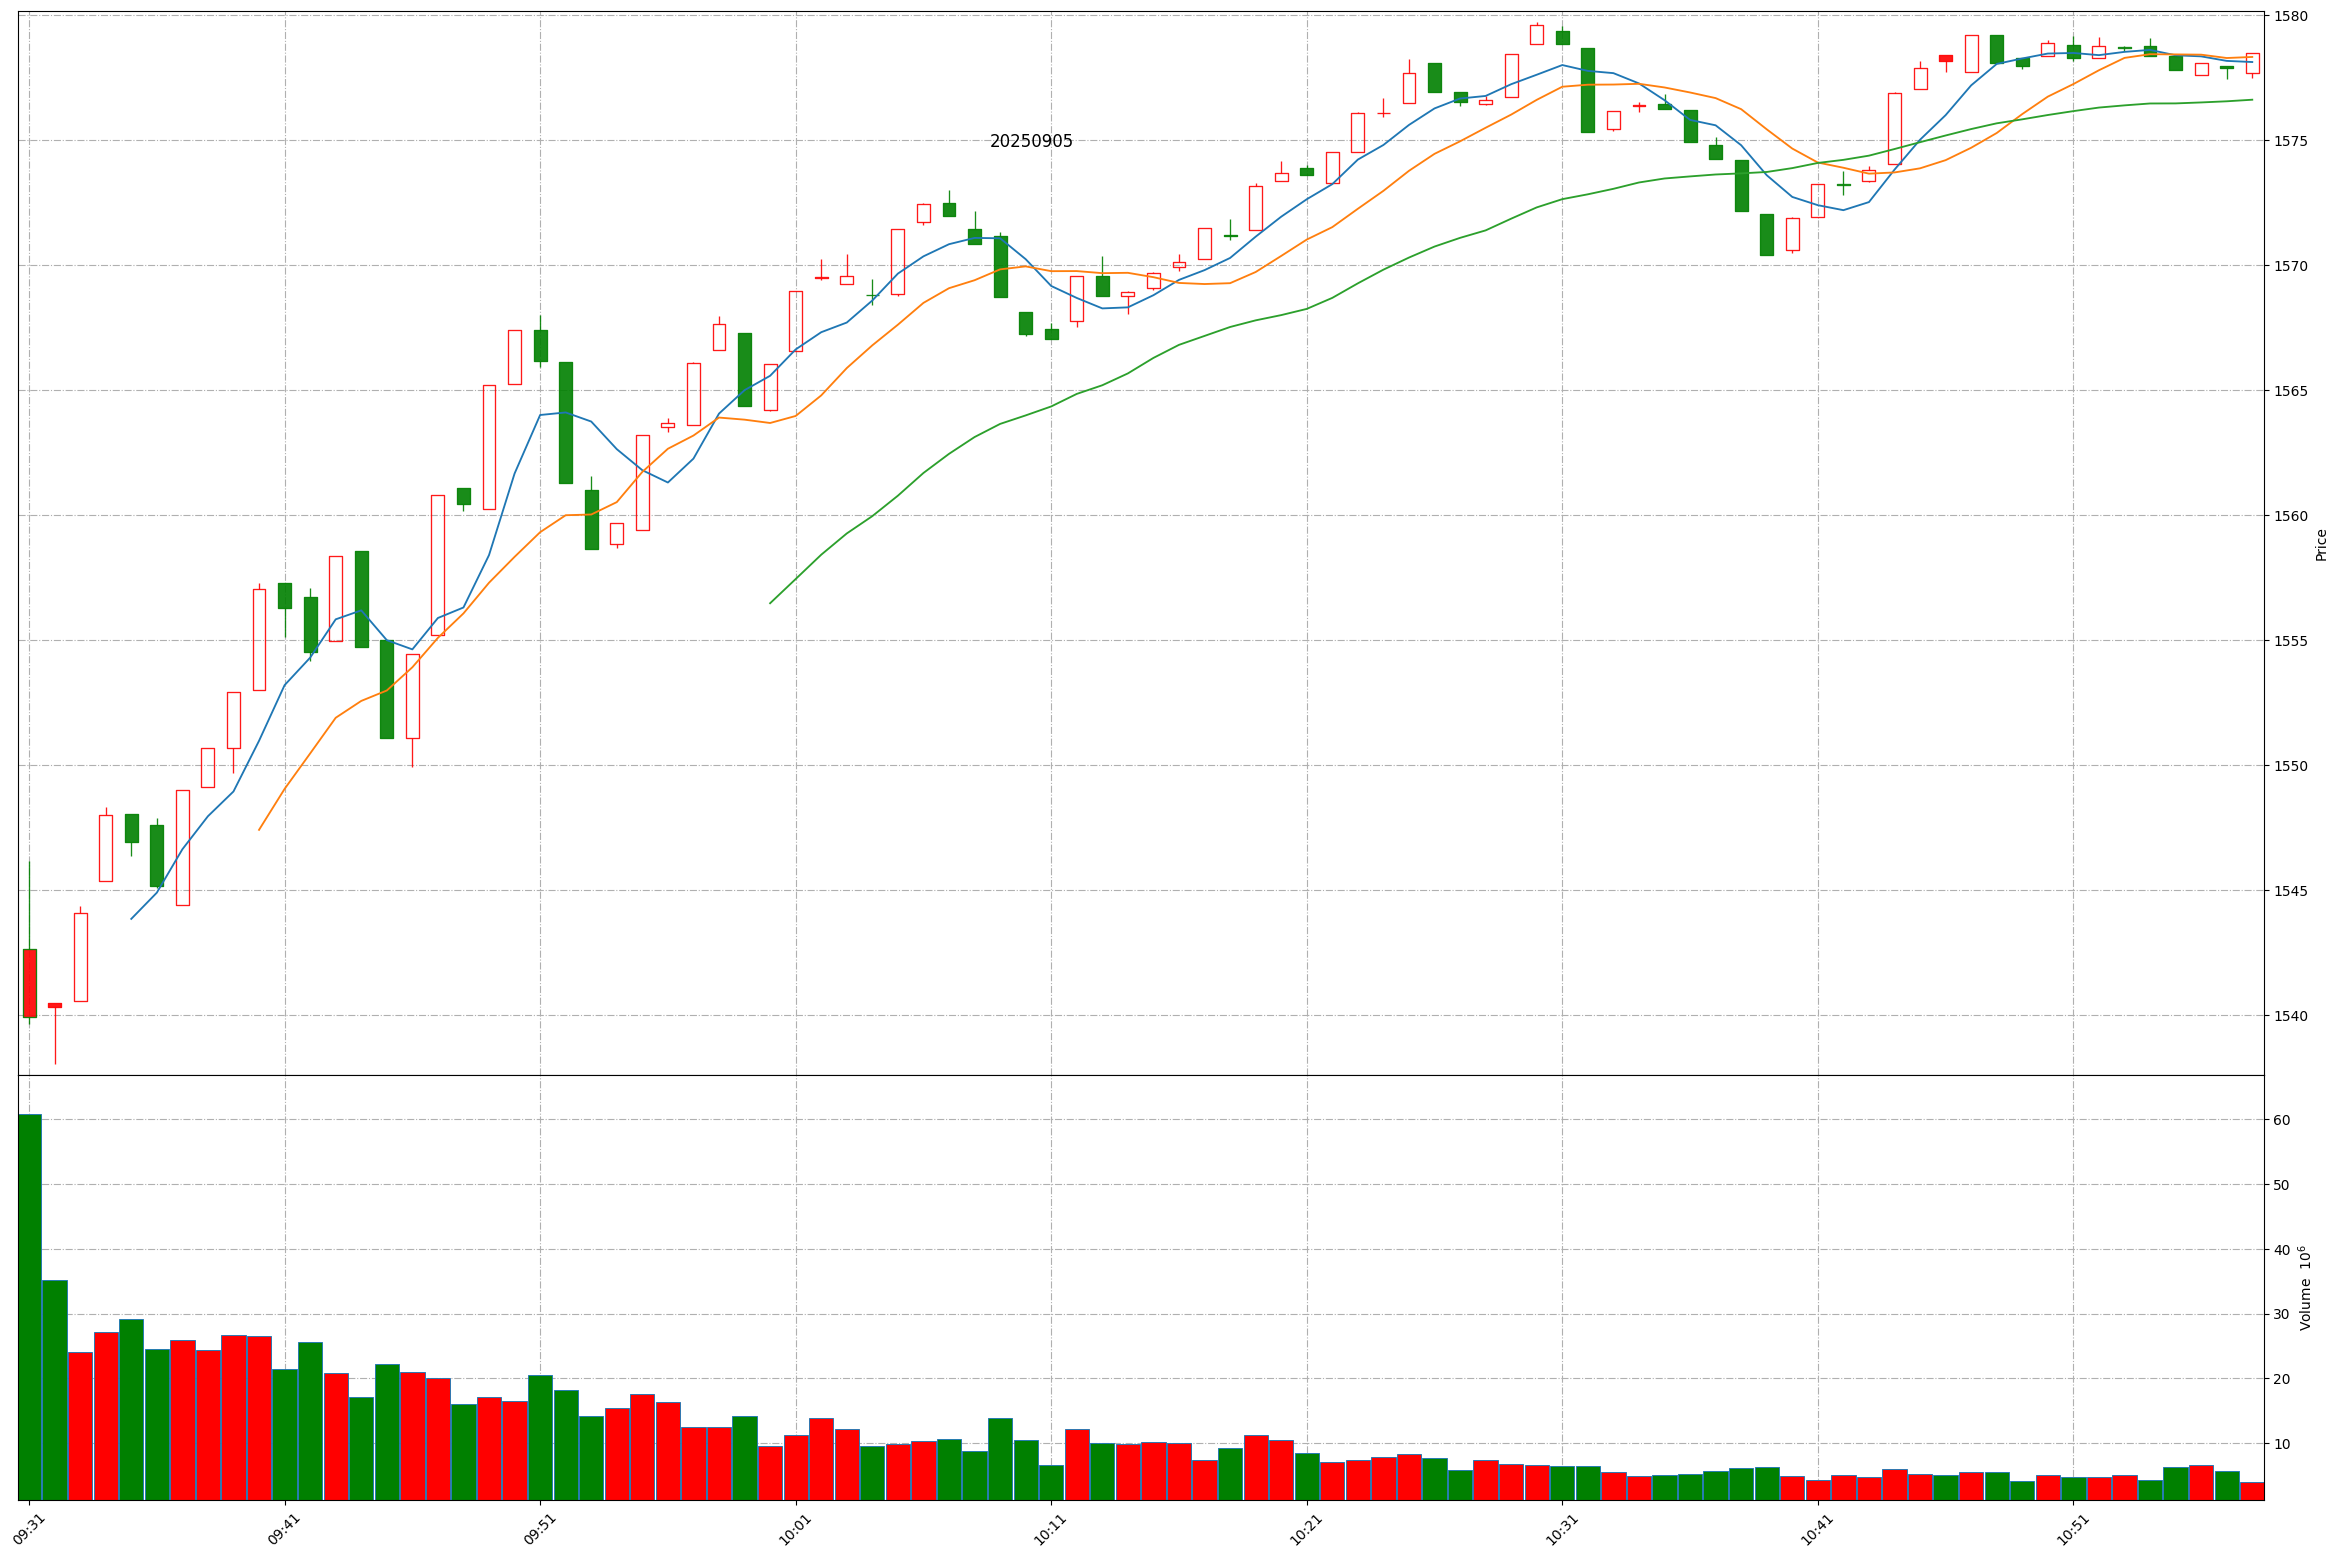
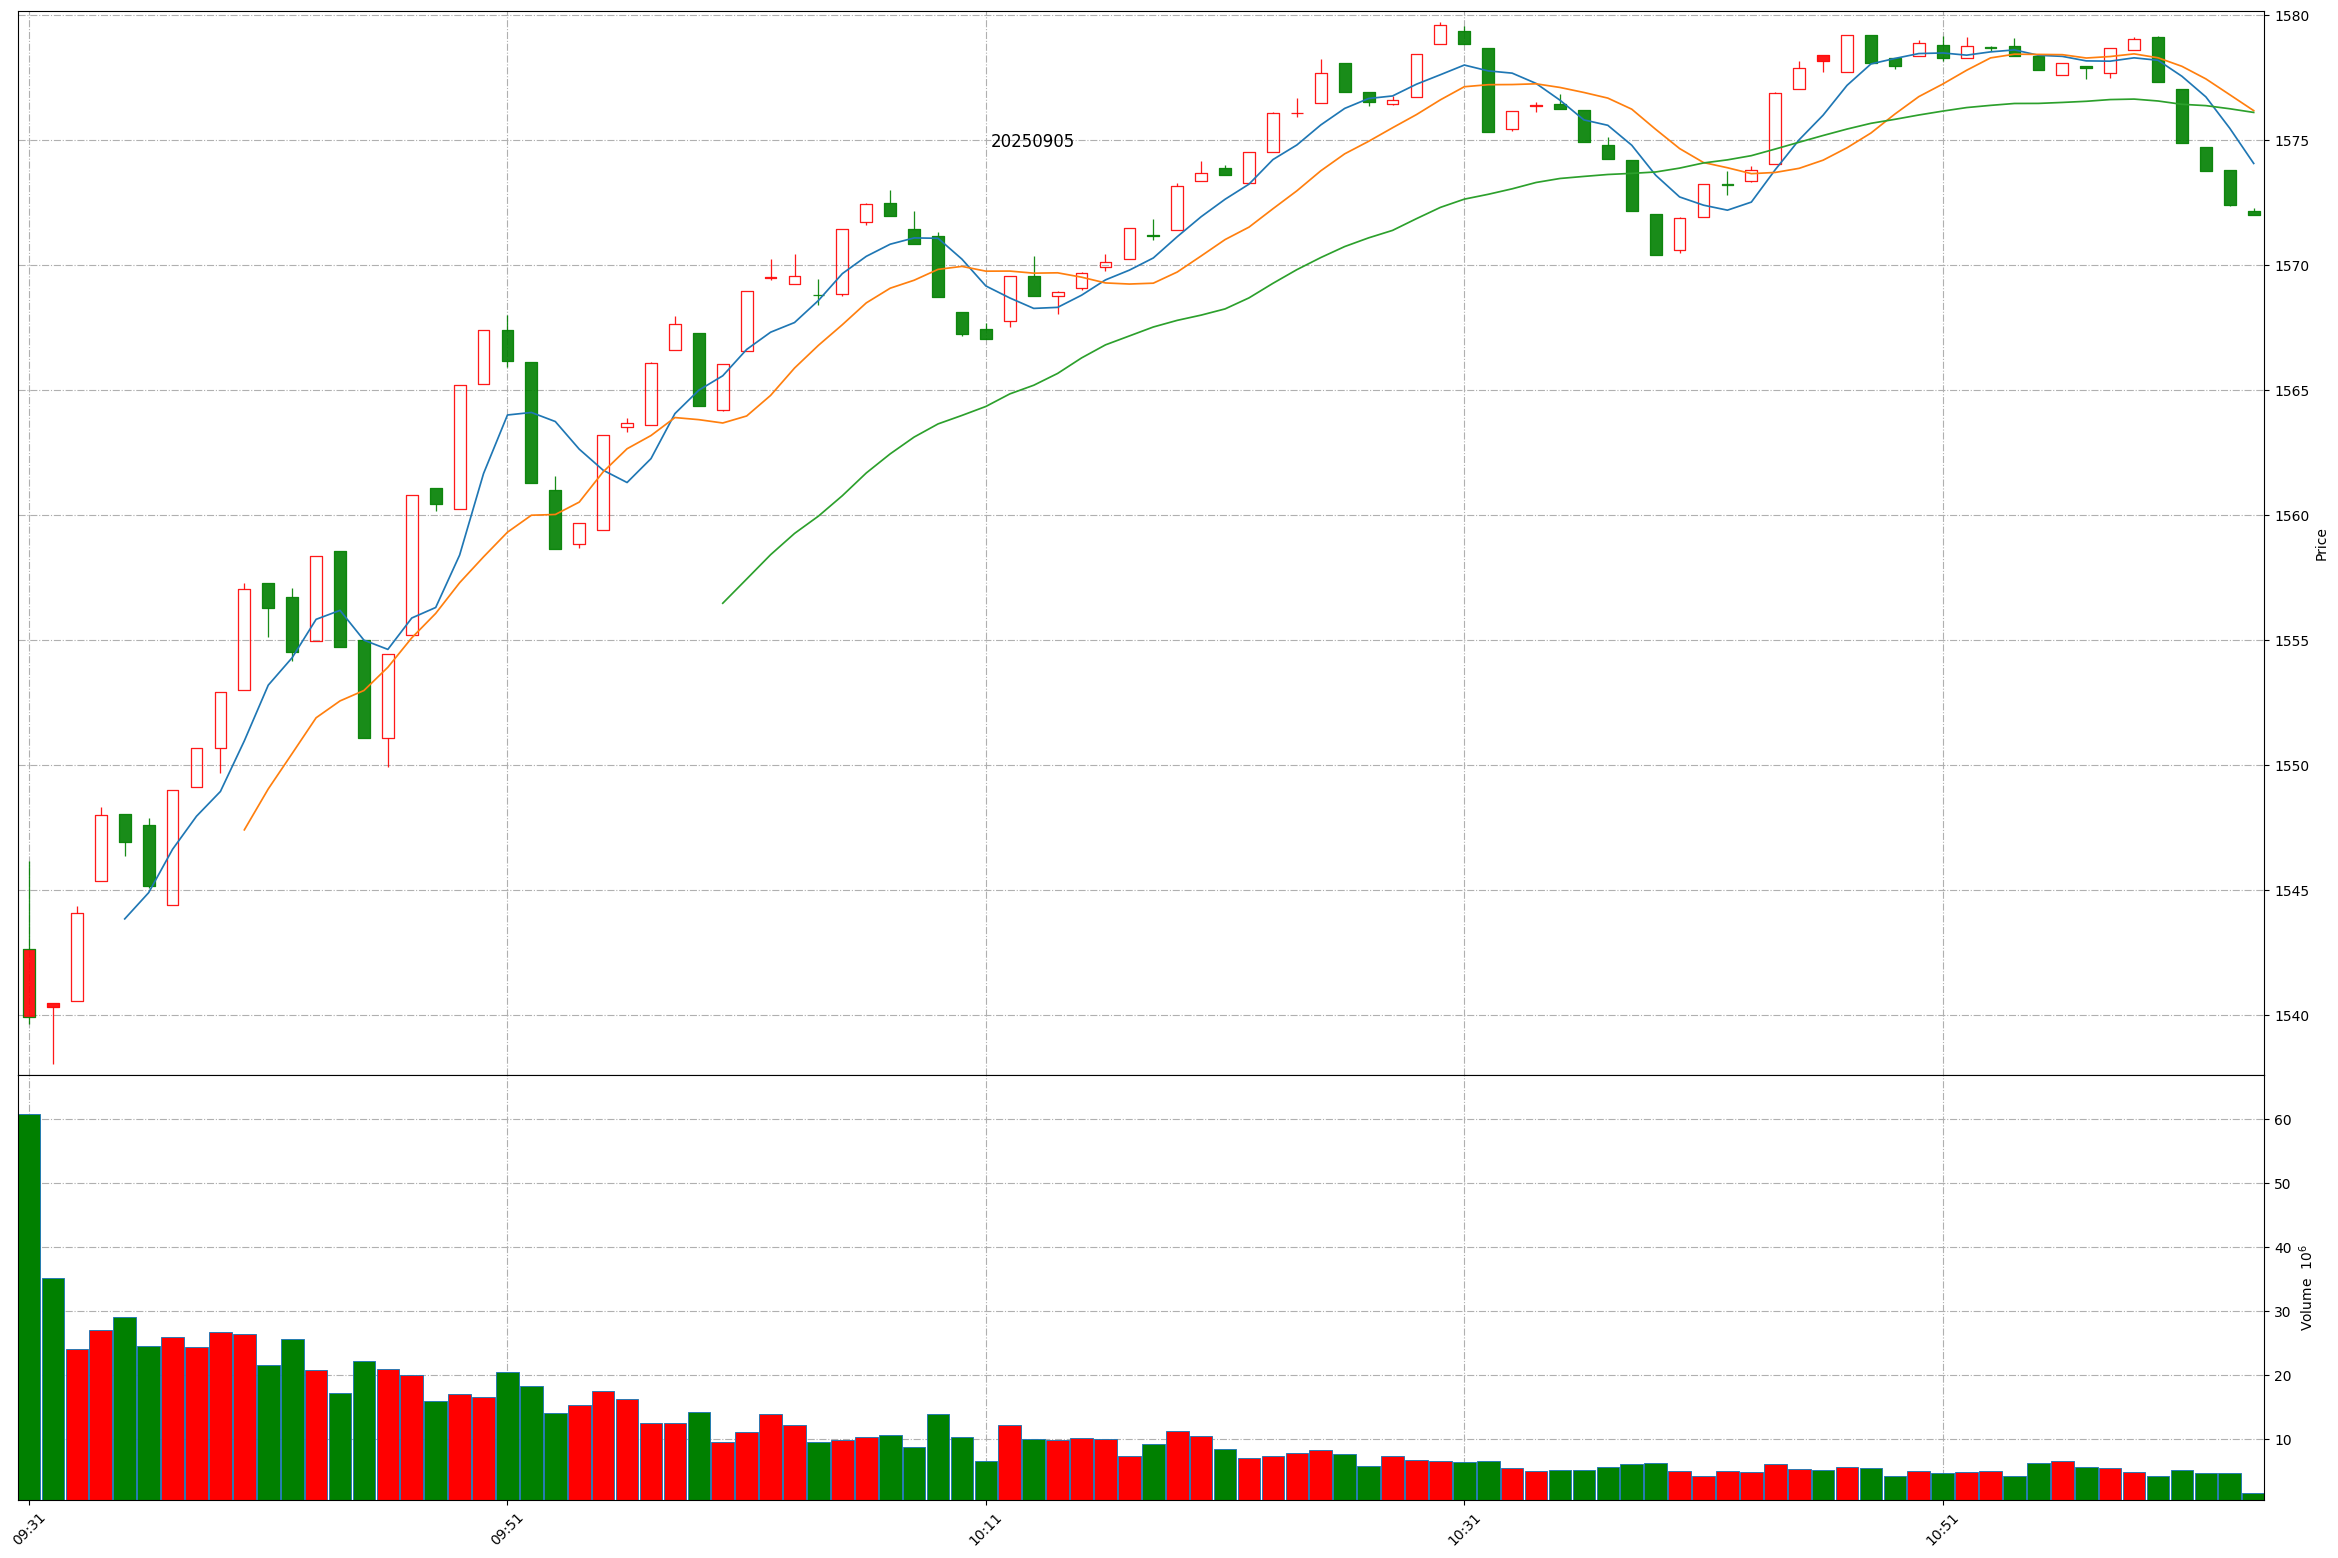
Github action update at 2025-09-05 11:03:36.

Changed region(s): [[0.0312, 0.0, 0.9679, 0.647], [0.0312, 0.8318, 0.9679, 0.9859]]

diff --git a/README.md b/README.md
@@ -1,11 +1,11 @@
 
 # Daily-A-share-market-quotes 每日 A 股指数（5min 更新）- 20250905
 
-### 上证指数 20250905 10:57
+### 上证指数 20250905 11:3
 ![](./fig/2025/9/20250905-sh000001.png)
 
-### 深证成指 20250905 10:57
+### 深证成指 20250905 11:3
 ![](./fig/2025/9/20250905-sz399001.png)
 
-### 北证50 20250905 10:57
+### 北证50 20250905 11:3
 ![](./fig/2025/9/20250905-bj899050.png)
